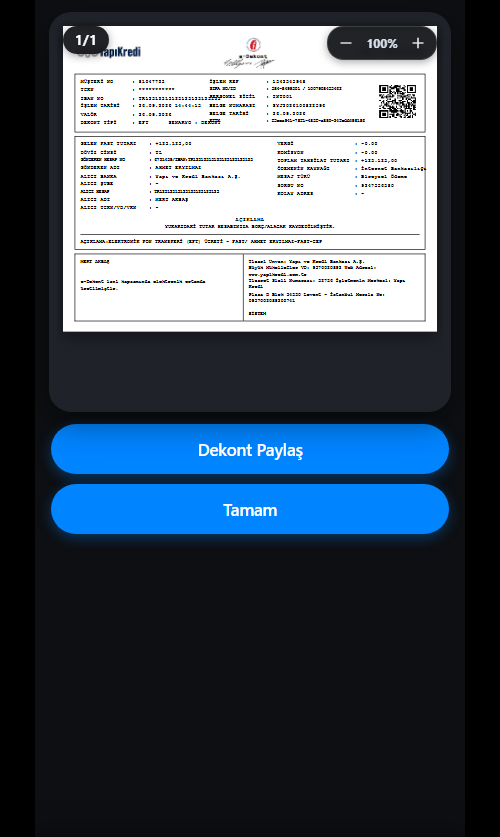
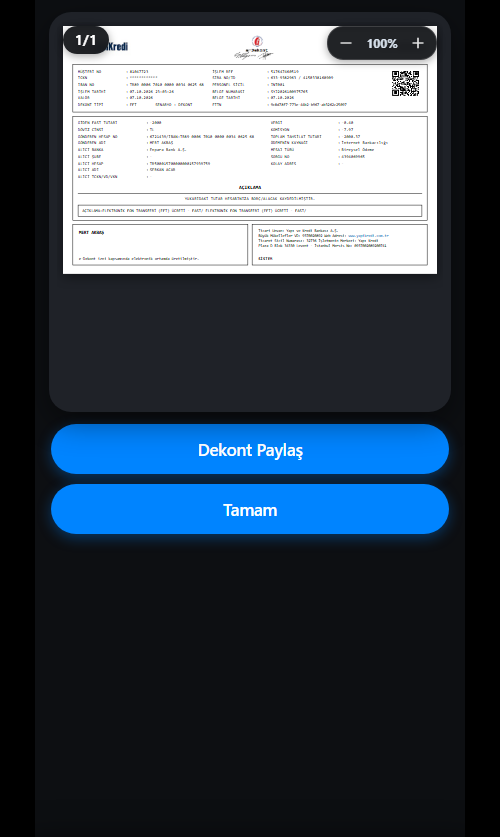
Karekodun cerceveden tasma sorunu giderildi, padding ve oranlar sabitlendi

Changed region(s): [[0.12, 0.0311, 0.9, 0.4038]]

diff --git a/mobile_app/index.html b/mobile_app/index.html
@@ -1315,14 +1315,14 @@
     position: absolute;
     top: 0;
     left: 0;
-    width: 750px;
+    width: 780px;
     box-sizing: border-box;
     background: #ffffff; 
     color: #000000; 
-    padding: 20px 22px; 
+    padding: 18px 20px; 
     font-family: Consolas, "Courier New", Courier, monospace; 
-    font-size: 9.5px; 
-    line-height: 1.45; 
+    font-size: 8.8px; 
+    line-height: 1.42; 
     border: none; 
     box-shadow: 0 6px 24px rgba(0,0,0,0.45); 
     transform-origin: top left;
@@ -1361,6 +1361,7 @@
     background: #ffffff;
     width: 100%;
     box-sizing: border-box;
+    overflow: hidden;
 }
 .dekont-table-box {
     width: 100%;
@@ -1370,45 +1371,44 @@
 .dekont-table-box td {
     padding: 0;
     vertical-align: top;
+    overflow: hidden;
 }
 .dekont-row {
     display: flex;
     align-items: baseline;
     white-space: nowrap;
-    font-size: 9.5px;
-    line-height: 1.45;
+    font-size: 8.8px;
+    line-height: 1.42;
     margin-bottom: 1.5px;
 }
 .d-k1-lbl {
-    width: 108px;
+    width: 98px;
     flex-shrink: 0;
     color: #000;
 }
 .d-k1-mid-lbl {
-    width: 124px;
+    width: 112px;
     flex-shrink: 0;
     color: #000;
 }
 .d-k2-lbl {
-    width: 155px;
+    width: 140px;
     flex-shrink: 0;
     color: #000;
 }
 .d-k2-sag-lbl {
-    width: 165px;
+    width: 138px;
     flex-shrink: 0;
     color: #000;
 }
 .d-sep {
-    width: 12px;
+    width: 10px;
     flex-shrink: 0;
     text-align: center;
     color: #000;
 }
 .d-val {
     flex: 1;
-    overflow: hidden;
-    text-overflow: ellipsis;
     white-space: nowrap;
     color: #000;
 }
@@ -1417,14 +1417,17 @@
     min-width: 85px;
     max-width: 85px;
     text-align: right;
-    vertical-align: middle !important;
+    vertical-align: top !important;
+    padding-right: 4px;
+    box-sizing: border-box;
 }
 .dekont-qr-img {
-    width: 76px;
-    height: 76px;
+    width: 66px;
+    height: 66px;
     border: none;
     display: block;
     margin-left: auto;
+    margin-right: 0;
     image-rendering: pixelated;
     background: #ffffff;
 }
@@ -2266,7 +2269,7 @@
             const effectiveScale = baseDekontFitScale * currentDekontScale;
             paper.style.transform = `scale(${effectiveScale})`;
 
-            const paperWidth = 750;
+            const paperWidth = 780;
             const paperHeight = paper.offsetHeight || 720;
             wrapper.style.width = `${Math.round(paperWidth * effectiveScale)}px`;
             wrapper.style.height = `${Math.round(paperHeight * effectiveScale)}px`;
@@ -2284,7 +2287,7 @@
             const availableWidth = viewport.clientWidth - 12;
             if (availableWidth <= 0) return;
 
-            baseDekontFitScale = Math.min(1.0, Math.max(0.25, availableWidth / 750));
+            baseDekontFitScale = Math.min(1.0, Math.max(0.25, availableWidth / 780));
             currentDekontScale = 1.0;
             updateDekontZoom();
         }
@@ -2349,9 +2352,9 @@
                     <div class="dekont-box">
                         <table class="dekont-table-box">
                             <colgroup>
-                                <col style="width: 320px;">
-                                <col style="width: 310px;">
-                                <col style="width: 80px;">
+                                <col style="width: 39%;">
+                                <col style="width: 48%;">
+                                <col style="width: 13%;">
                             </colgroup>
                             <tr>
                                 <!-- Sol Blok -->
@@ -2386,8 +2389,8 @@
                     <div class="dekont-box">
                         <table class="dekont-table-box">
                             <colgroup>
-                                <col style="width: 440px;">
-                                <col style="width: 270px;">
+                                <col style="width: 56%;">
+                                <col style="width: 44%;">
                             </colgroup>
                             <tr>
                                 <!-- Sol Sütun -->
